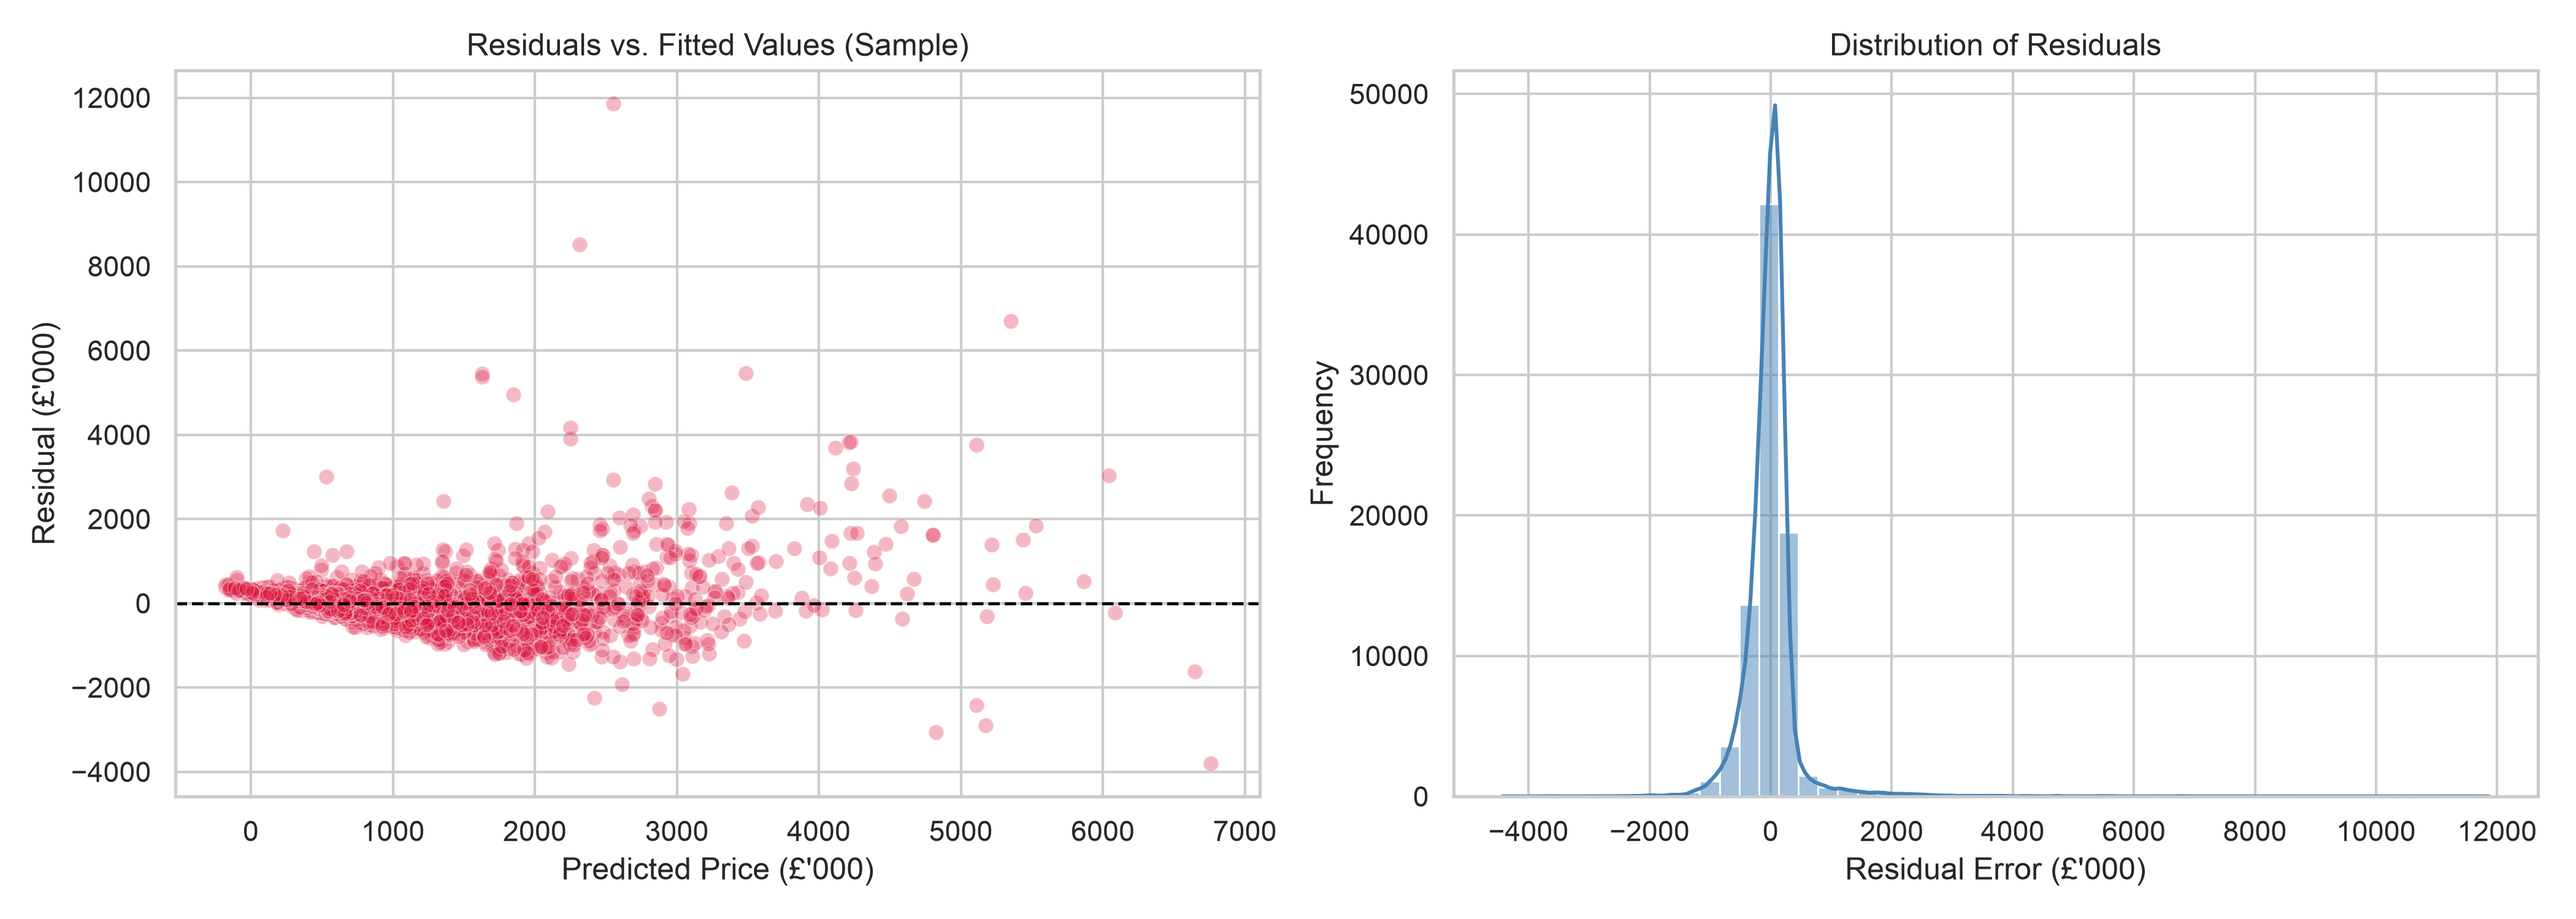
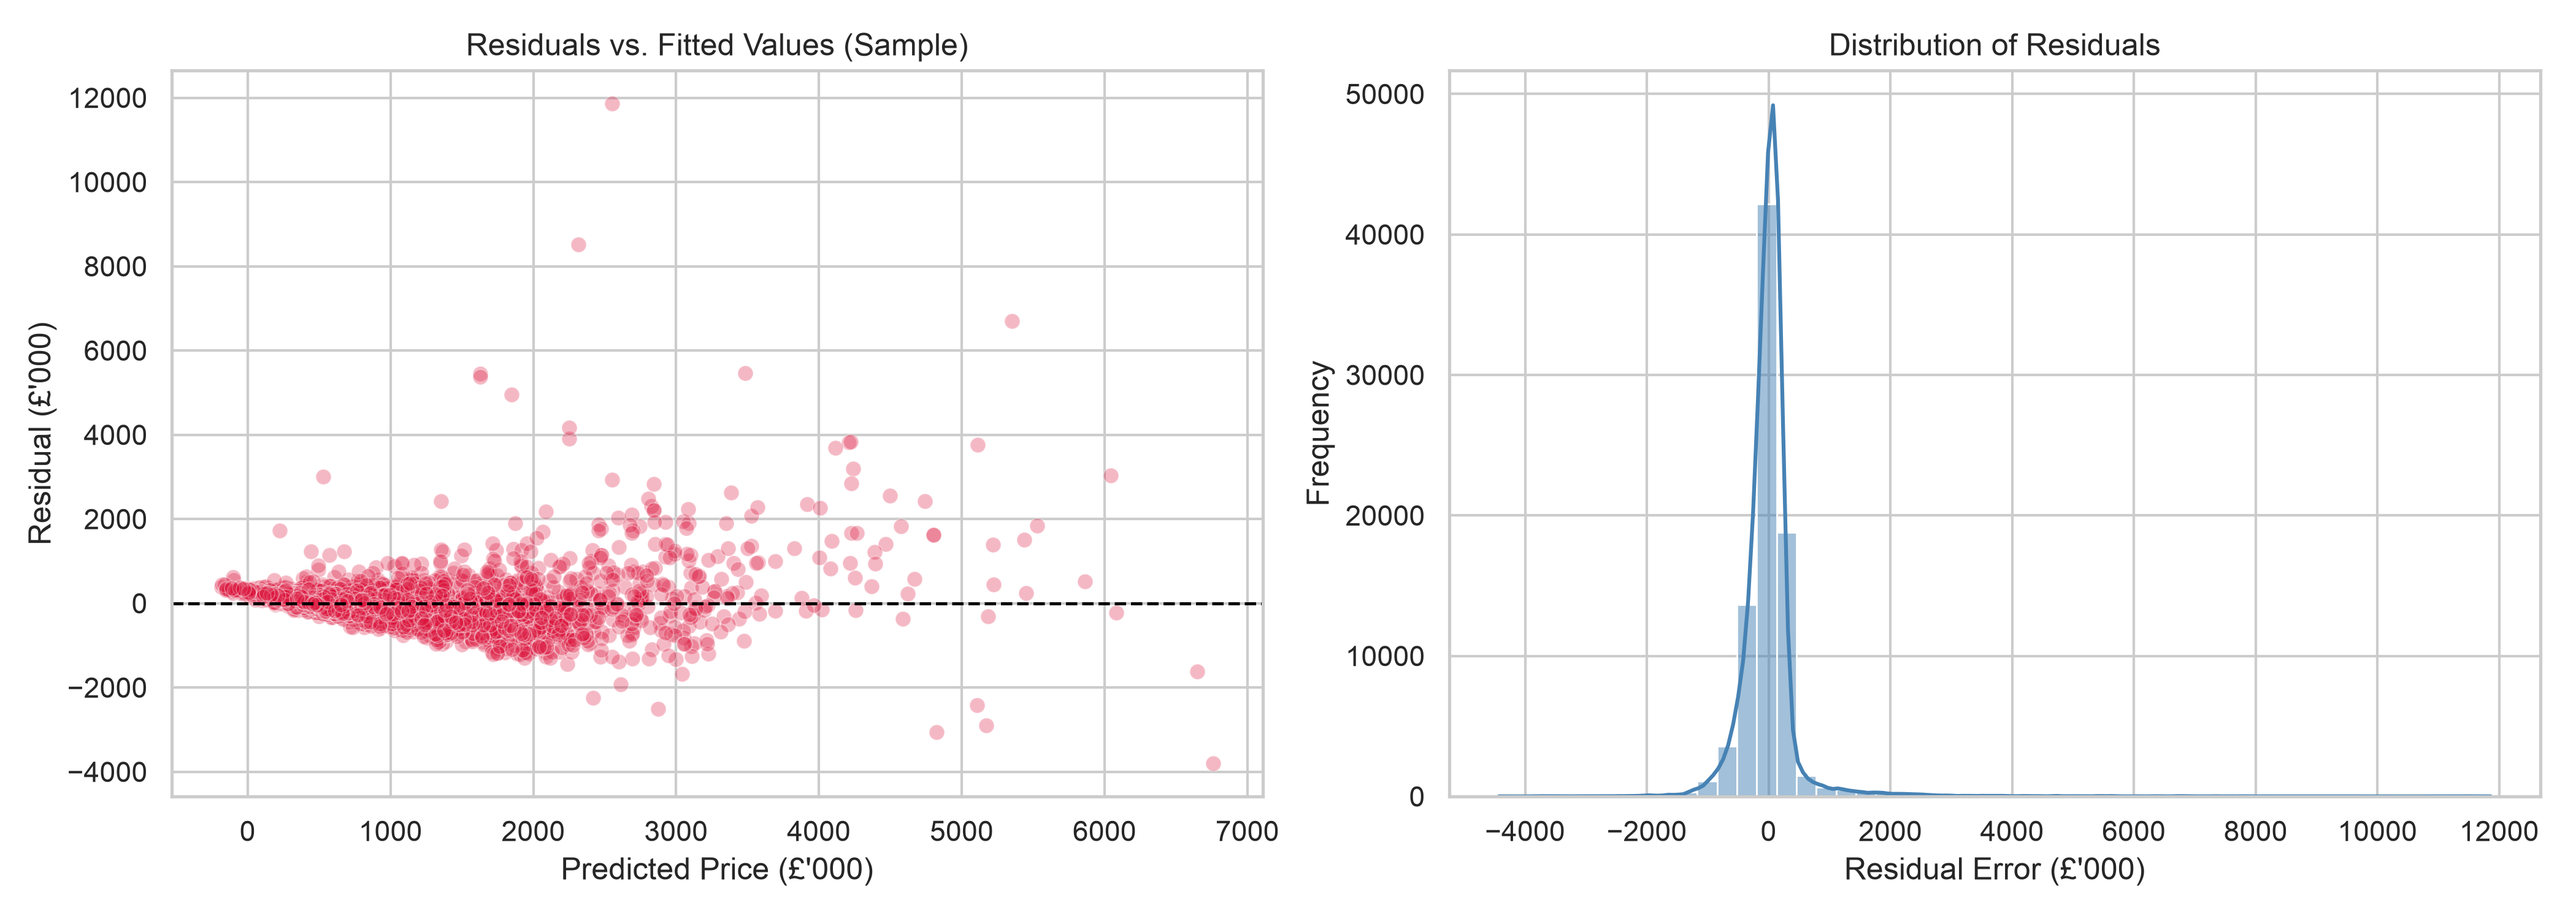
Final version

diff --git a/src/evaluate_model.py b/src/evaluate_model.py
@@ -1,8 +1,11 @@
-#Handles Steps 7, 8, and 9:
-#- Loads the trained pipeline and held-out test data
-#- Generates predictions
-#- Calculates MAE, RMSE, and R²
-#- Performs residual diagnostics and exports plots to reports/figures/
+# This file handles the evaluation stage of our machine learning project.
+#
+# Step 7: Use the trained model to make predictions.
+# Step 8: Evaluate predictions using MAE, RMSE and R².
+# Step 9: Analyse residuals to understand where the model makes errors.
+#
+# We also generate and save visualisations to help us
+# understand how well our model performs.
 
 
 from pathlib import Path
@@ -11,54 +14,124 @@ import matplotlib.pyplot as plt
 import numpy as np
 import pandas as pd
 import seaborn as sns
+
 from sklearn.metrics import mean_absolute_error, mean_squared_error, r2_score
 
 
 def evaluate_pipeline():
+
+    # Find the main project folder and define where
+    # our saved model, test dataset and figures are located.
     project_root = Path(__file__).resolve().parent.parent
+
     model_path = project_root / "models" / "baseline_linear_model.joblib"
     test_path = project_root / "data" / "processed" / "test_set_eval.csv"
+
     figures_dir = project_root / "reports" / "figures"
+
+    # Create the figures folder if it doesn't already exist.
     figures_dir.mkdir(parents=True, exist_ok=True)
 
+    # Before continuing, check that both required files exist.
+    # If they are missing, we need to run train_model.py first.
     if not model_path.exists() or not test_path.exists():
         print("[ERROR] Missing model or test dataset. Run src/train_model.py first.")
         return
 
+    # Load our previously trained model and the saved test dataset.
+    # This means we can evaluate the model without training it again.
     print("[INFO] Loading model and test set...")
+
     model = joblib.load(model_path)
     test_df = pd.read_csv(test_path)
 
+    # Separate the actual prices from the property features.
+    # We need both so we can compare actual prices with predictions.
     y_test = test_df["actual_price"]
     X_test = test_df.drop(columns=["actual_price"])
 
-    # Step 7: Make predictions
+
+    # ---------------------------------------------------------
+    # STEP 7: MAKE PREDICTIONS
+    # ---------------------------------------------------------
+
+    # Pass the unseen property features into our trained pipeline.
+    # The pipeline automatically applies the same preprocessing
+    # before Linear Regression generates the predicted prices.
     print("[INFO] Generating predictions on test set...")
+
     y_pred = model.predict(X_test)
 
-    # Step 8: Evaluate performance metrics
+
+    # ---------------------------------------------------------
+    # STEP 8: EVALUATE MODEL PERFORMANCE
+    # ---------------------------------------------------------
+
+    # Compare the predicted prices against the actual prices.
+    #
+    # MAE: Average absolute difference between predictions
+    # and actual prices.
+    #
+    # RMSE: Similar to MAE, but penalises larger errors more.
+    #
+    # R²: Measures how much variation in the target prices
+    # is explained by our model.
     mae = mean_absolute_error(y_test, y_pred)
+
     rmse = np.sqrt(mean_squared_error(y_test, y_pred))
+
     r2 = r2_score(y_test, y_pred)
 
+    # Display all three metrics in a readable format.
     print("\n" + "=" * 45)
     print("         MODEL PERFORMANCE METRICS")
     print("=" * 45)
+
     print(f"Mean Absolute Error (MAE) : £{mae:,.2f}")
     print(f"Root Mean Squared Error   : £{rmse:,.2f}")
     print(f"R² Score                  : {r2:.4f}")
+
     print("=" * 45 + "\n")
 
-    # Step 9: Residual diagnostics
+
+    # ---------------------------------------------------------
+    # STEP 9: RESIDUAL ANALYSIS
+    # ---------------------------------------------------------
+
+    # A residual is the difference between the actual
+    # price and the price predicted by our model.
+    #
+    # Positive residual = model underestimated the price.
+    # Negative residual = model overestimated the price.
+    # Zero residual = prediction was exactly correct.
     residuals = y_test - y_pred
 
+    # Set the visual style for our plots.
     sns.set_theme(style="whitegrid")
+
+    # Create two plots next to each other.
     fig, axes = plt.subplots(1, 2, figsize=(14, 5))
 
-    # 1. Residuals vs Predicted Prices (Homoscedasticity check)
-    # Subsample 5,000 points to keep plot clear and responsive
-    plot_idx = np.random.RandomState(42).choice(len(y_test), size=min(5000, len(y_test)), replace=False)
 
+    # ---------------------------------------------------------
+    # PLOT 1: RESIDUALS VS PREDICTED PRICES
+    # ---------------------------------------------------------
+
+    # We have over 83,000 test records.
+    # Plotting all of them can make the chart difficult to read.
+    #
+    # So we randomly select up to 5,000 points.
+    # random_state=42 makes the sample reproducible.
+    plot_idx = np.random.RandomState(42).choice(
+        len(y_test),
+        size=min(5000, len(y_test)),
+        replace=False
+    )
+
+    # Create a scatter plot showing how prediction errors
+    # change as predicted property prices increase.
+    #
+    # We divide by 1,000 to display prices in thousands of pounds.
     sns.scatterplot(
         x=y_pred[plot_idx] / 1_000,
         y=residuals.iloc[plot_idx] / 1_000,
@@ -66,12 +139,27 @@ def evaluate_pipeline():
         color="crimson",
         ax=axes[0],
     )
+
+    # Add a horizontal line at zero.
+    # Ideally, residuals should be randomly distributed around it.
     axes[0].axhline(0, color="black", linestyle="--", linewidth=1.2)
+
     axes[0].set_title("Residuals vs. Fitted Values (Sample)")
     axes[0].set_xlabel("Predicted Price (£'000)")
     axes[0].set_ylabel("Residual (£'000)")
 
-    # 2. Distribution of Residuals (Normality check)
+
+    # ---------------------------------------------------------
+    # PLOT 2: DISTRIBUTION OF RESIDUALS
+    # ---------------------------------------------------------
+
+    # This histogram shows how our prediction errors
+    # are distributed across the test dataset.
+    #
+    # We want to see whether the errors are roughly
+    # centred around zero and approximately normally distributed.
+    #
+    # The KDE line gives us a smooth view of the distribution.
     sns.histplot(
         residuals / 1_000,
         bins=50,
@@ -79,17 +167,31 @@ def evaluate_pipeline():
         color="steelblue",
         ax=axes[1],
     )
+
     axes[1].set_title("Distribution of Residuals")
     axes[1].set_xlabel("Residual Error (£'000)")
     axes[1].set_ylabel("Frequency")
 
+
+    # ---------------------------------------------------------
+    # SAVE OUR DIAGNOSTIC PLOTS
+    # ---------------------------------------------------------
+
+    # Adjust the spacing so the two plots are displayed neatly.
     plt.tight_layout()
+
+    # Save the figure so we can include it in our final report
+    # or presentation.
     plot_file = figures_dir / "residual_analysis.png"
+
     plt.savefig(plot_file, dpi=300)
+
+    # Close the figure to release memory.
     plt.close()
 
     print(f"[SUCCESS] Residual diagnostic plots saved to: {plot_file}")
 
 
+# Run the evaluation function when this file is executed directly.
 if __name__ == "__main__":
     evaluate_pipeline()

diff --git a/src/train_model.py b/src/train_model.py
@@ -1,13 +1,16 @@
-#Handles Steps 3, 5, and 6:
-#- Selects feature set X and target y
-#- Splits into Train (80%) and Test (20%)
-#- Constructs ColumnTransformer and Pipeline (Imputation + OneHotEncoding + LinearRegression)
-# - Fits the model and persists artifacts for evaluation
+# This file handles three stages of our machine learning workflow:
+# Step 3: Choose the features (X) and target (y).
+# Step 5: Split the data into training and testing sets.
+# Step 6: Prepare the data, build and train our Linear Regression model.
+#
+# We also save the trained model and test data so we can use them
+# later in evaluate_model.py without having to train everything again.
 
 
 from pathlib import Path
 import joblib
 import pandas as pd
+
 from sklearn.compose import ColumnTransformer
 from sklearn.impute import SimpleImputer
 from sklearn.linear_model import LinearRegression
@@ -17,52 +20,114 @@ from sklearn.preprocessing import OneHotEncoder
 
 
 def build_and_train_model():
+
+    # First, find the main project folder.
+    # This allows us to build file paths without hardcoding
+    # the full location on our computer.
     project_root = Path(__file__).resolve().parent.parent
+
+    # Define where our cleaned dataset and model will be stored.
     data_path = (
         project_root / "data" / "processed" / "cleaned_london_house_prices.csv"
     )
     models_dir = project_root / "models"
     processed_dir = project_root / "data" / "processed"
 
+    # Create the models folder if it doesn't already exist.
     models_dir.mkdir(exist_ok=True)
 
+    # Load the cleaned dataset into a Pandas DataFrame.
     print(f"[INFO] Loading processed dataset from: {data_path}")
     df = pd.read_csv(data_path)
 
-    # Step 3: Choose target and predictors
+
+    # ---------------------------------------------------------
+    # STEP 3: CHOOSE OUR FEATURES (X) AND TARGET (y)
+    # ---------------------------------------------------------
+
+    # The target is what we want our model to predict.
     target = "price"
+
+    # These are our numerical features.
+    # We use a list comprehension to select the columns that
+    # actually exist in our dataset.
     numeric_features = [
         col
         for col in ["floorAreaSqM", "bedrooms", "bathrooms", "livingRooms"]
         if col in df.columns
     ]
+
+    # These are our categorical features.
+    # They describe the type of property and its location.
     categorical_features = [
         col for col in ["propertyType", "tenure", "outcode"] if col in df.columns
     ]
 
+    # Combine both groups into one feature list.
+    # X contains the information we give the model.
+    # y contains the price we want the model to predict.
     feature_cols = numeric_features + categorical_features
+
     X = df[feature_cols]
     y = df[target]
 
     print(f"[INFO] Predictors ({len(feature_cols)}): {feature_cols}")
     print(f"[INFO] Target: {target}")
 
-    # Step 5: Split train and test sets (80/20)
+
+    # ---------------------------------------------------------
+    # STEP 5: SPLIT INTO TRAINING AND TESTING DATA
+    # ---------------------------------------------------------
+
+    # We split our data into 80% for training and 20% for testing.
+    #
+    # Training data teaches the model patterns in the data.
+    # Testing data allows us to check how well it performs
+    # on properties it hasn't seen before.
+    #
+    # random_state=42 makes sure we get the same split
+    # every time we run the script.
     X_train, X_test, y_train, y_test = train_test_split(
         X, y, test_size=0.20, random_state=42
     )
+
     print(
         f"[INFO] Training set: {X_train.shape[0]:,} rows | Test set: {X_test.shape[0]:,} rows"
     )
 
-    # Step 6: Build preprocessing & model pipeline
+
+    # ---------------------------------------------------------
+    # STEP 6: BUILD OUR PREPROCESSING PIPELINE
+    # ---------------------------------------------------------
+
+    # Our dataset contains both numerical and categorical data.
+    # They need different preparation before we can train the model.
+    #
+    # ColumnTransformer allows us to apply different operations
+    # to different groups of columns.
+
     preprocessor = ColumnTransformer(
         transformers=[
+
+            # NUMERICAL FEATURES:
+            # Some properties have missing values for size or rooms.
+            # We fill those missing values using the median.
+            #
+            # The median is less affected by extreme values
+            # than the mean.
             (
                 "num",
                 SimpleImputer(strategy="median"),
                 numeric_features,
             ),
+
+            # CATEGORICAL FEATURES:
+            # First, fill missing categories with the most common value.
+            # Then, use OneHotEncoder to convert text categories
+            # into numerical columns that the model can understand.
+            #
+            # handle_unknown="ignore" means the model can handle
+            # categories it didn't encounter during training.
             (
                 "cat",
                 Pipeline(
@@ -81,6 +146,11 @@ def build_and_train_model():
         ]
     )
 
+    # Now we combine preprocessing and Linear Regression
+    # into one pipeline.
+    #
+    # This means the data is automatically prepared before
+    # being passed to the regression model.
     pipeline = Pipeline(
         steps=[
             ("preprocessor", preprocessor),
@@ -88,20 +158,34 @@ def build_and_train_model():
         ]
     )
 
+    # Train the complete pipeline using our training data.
+    # The model learns the relationships between property features
+    # and the target prices.
     print("[INFO] Fitting Linear Regression pipeline...")
     pipeline.fit(X_train, y_train)
 
-    # Save artifacts for evaluate_model.py
+
+    # ---------------------------------------------------------
+    # SAVE OUR MODEL AND TEST DATA
+    # ---------------------------------------------------------
+
+    # Save the trained pipeline using Joblib.
+    # We can load it later without training the model again.
     joblib.dump(pipeline, models_dir / "baseline_linear_model.joblib")
 
-    # Persist the test set so evaluation runs on identical data
+    # Save the test features alongside their actual target values.
+    # This allows our evaluation script to compare predictions
+    # against the original values using exactly the same test set.
     test_data = X_test.copy()
     test_data["actual_price"] = y_test
+
     test_data.to_csv(processed_dir / "test_set_eval.csv", index=False)
 
     print(f"[SUCCESS] Trained model saved to: {models_dir / 'baseline_linear_model.joblib'}")
     print(f"[SUCCESS] Held-out test set saved to: {processed_dir / 'test_set_eval.csv'}")
 
 
+# This makes sure the training function only runs
+# when we execute this file directly.
 if __name__ == "__main__":
     build_and_train_model()
